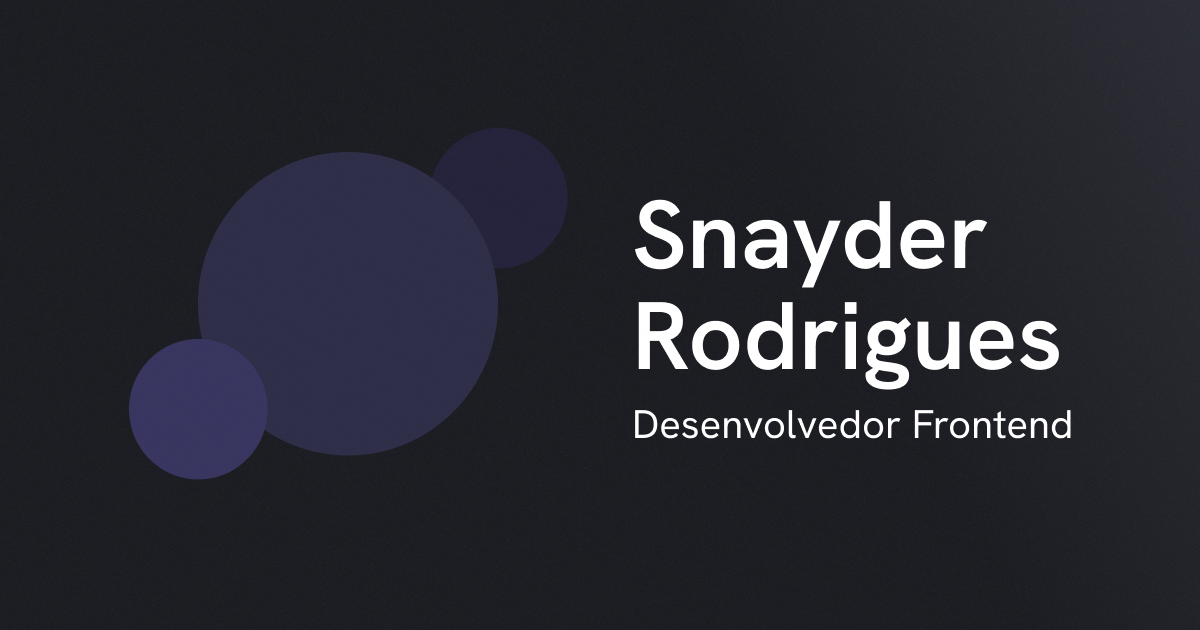
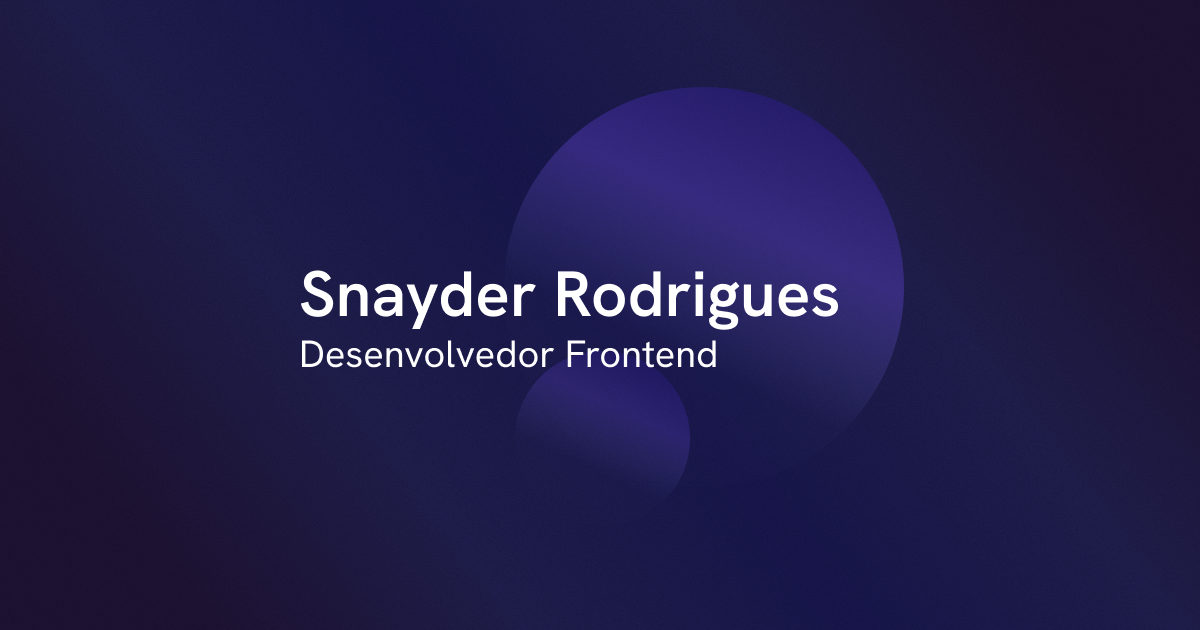
update: Open Graph image and update heavyload project cover image

diff --git a/style.css b/style.css
@@ -27,7 +27,11 @@
   --rounded-xsm: 0.25rem;
   --rounded-sm: 0.375rem;
   --rounded-md: 0.625rem;
-  --rounded-lg: clamp(1.5rem, 0.4356435643564356rem + 3.9603960396039604vw, 4rem);
+  --rounded-lg: clamp(
+    1.5rem,
+    0.4356435643564356rem + 3.9603960396039604vw,
+    4rem
+  );
   --rounded-50: 50%;
   --rounded-full: 999px;
 }
@@ -1589,6 +1593,11 @@ textarea {
 
 .footer-scroll-top {
   font-size: 1.125rem;
+}
+
+.footer-scroll-top:hover::before {
+  width: 200px;
+  height: 200px;
 }
 
 /*  -------------------------------- RESPONSIVE -------------------------------- */

diff --git a/index.html b/index.html
@@ -189,7 +189,9 @@
           </div>
           <div class="services-container">
             <div class="services-content-wrapper">
-              <h3 class="services-headline">Minhas competências e especialidades</h3>
+              <h3 class="services-headline">
+                Minhas competências e especialidades
+              </h3>
               <ul class="services-card-wrapper">
                 <li class="services-card">
                   <div class="services-header">
